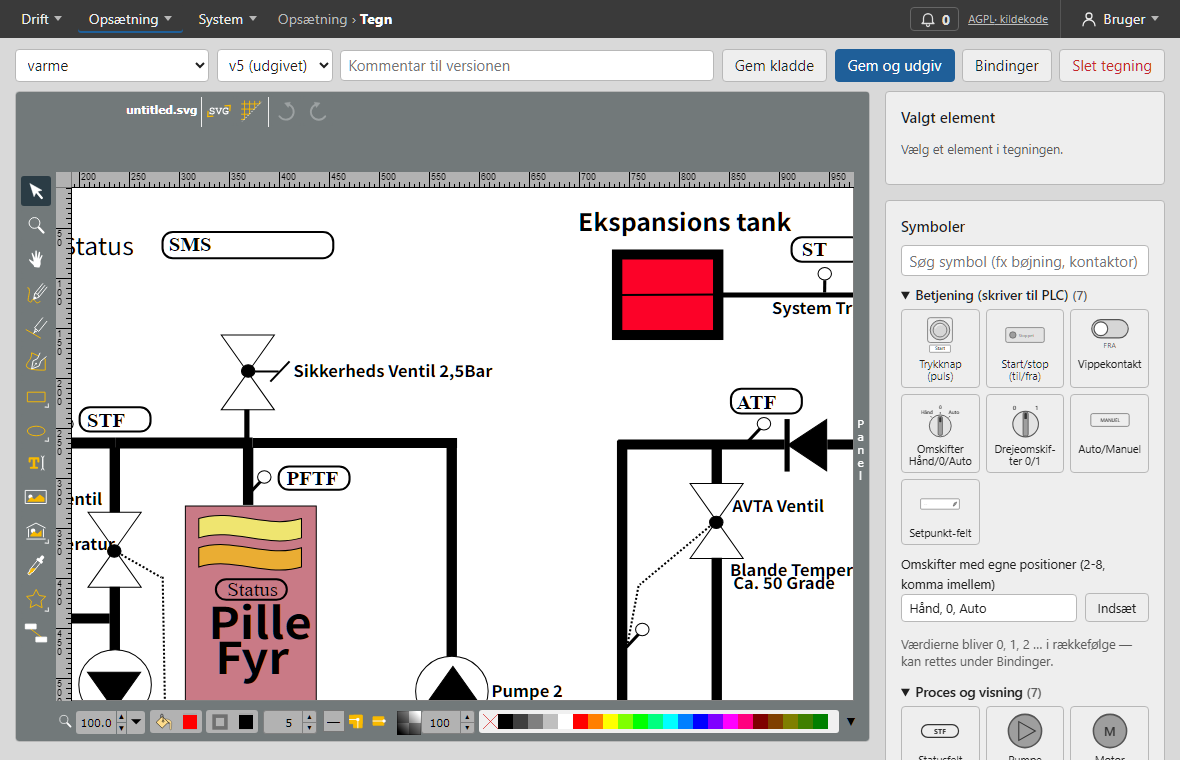
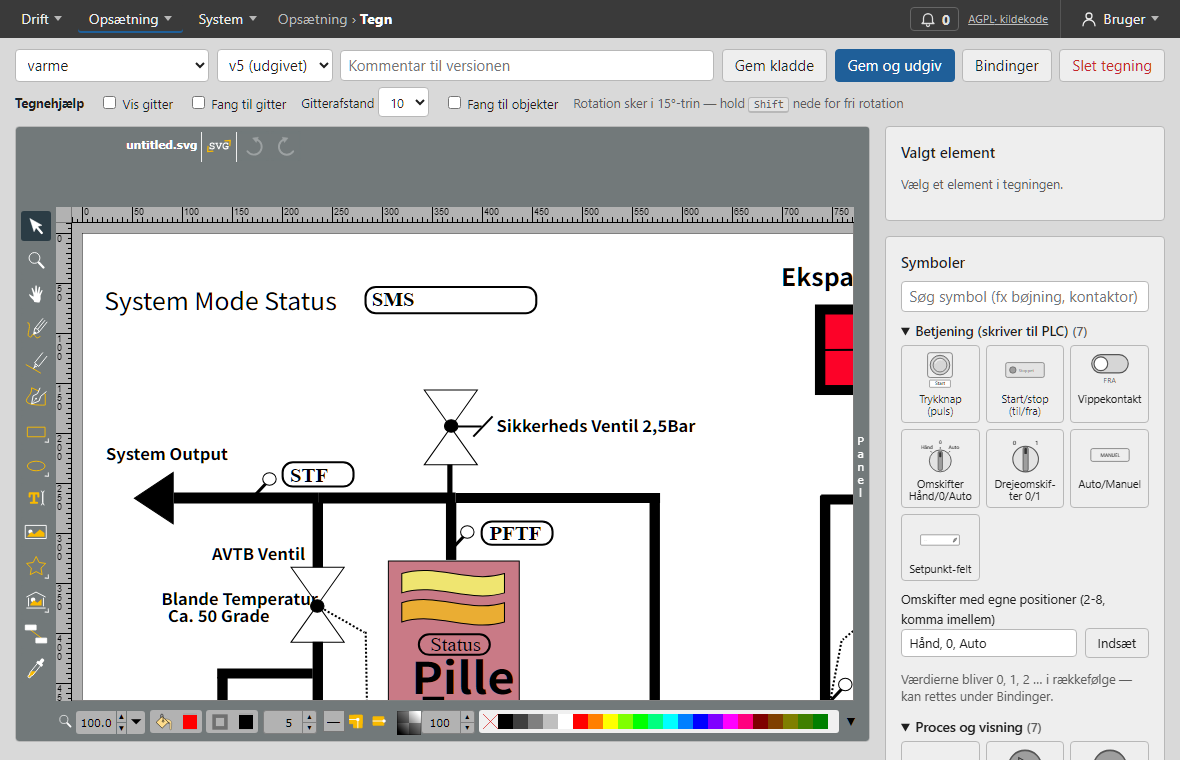
v0.54.1-b0080: manual: billeder af Tegnehjælp

diff --git a/CHANGELOG.md b/CHANGELOG.md
@@ -4,6 +4,10 @@ Nyeste øverst. Format: `## [version build NNNN] — YYYY-MM-DD — beskrivelse`
 
 ---
 
+## [0.54.1 build 0080] — 2026-10-16 — manual: billeder af Tegnehjælp
+
+- `frontend/public/manual/tegn-gitter.png` (nyt) og et nyt `tegn.png` med rækken Tegnehjælp; billedet er indsat i kapitlet *Tegninger og Tegn*. Verificeret på testserveren efter OTA-installation af 0.54.0: rotationsrettelsen er med i den leverede `Editor.js`, og gitteret ligger over det rigtige anlæg.
+
 ## [0.54.0 build 0079] — 2026-10-16 — Tegnehjælp: gitter, fang til gitter/objekter og rotation i 15°-trin
 
 - `frontend/svgedit-host/scada-editor.js` — **gitter** tegnet som et gennemsigtigt lag OVENPÅ tegningen (SVG-Edits eget gitter lå under og var skjult bag baggrundsrektanglet), afstand 5/10/20/25/50 med kraftigere linje for hver 5.; følger zoom og rulning; **fang til gitter** (SVG-Edits egen `gridSnapping`/`snappingStep`); **fang til objekter**: ved museslip efter et træk lægges det flyttede objekt kant mod kant eller midte mod midte med nærmeste objekt inden for 8 skærm-pixel (kan fortrydes). SVG-Edit sender ikke `changed` efter en flytning, så der lyttes på museknappen. API: `window.scada.setGuides({ grid, snapGrid, snapObjects, step })`. `ext-grid` er fjernet.

diff --git a/README.md b/README.md
@@ -13,7 +13,7 @@ Dokumentation:
 - **Brugermanual:** i programmet under **Bruger › Manual** (kilden er markdown i [frontend/src/manual/](frontend/src/manual/)). Skærmbillederne tages automatisk fra en kørende server: `cd frontend && SCADA_URL=https://<server> SCADA_USER=<admin> SCADA_PASS=… npm run manual:screenshots` (kun læsning).
 - [docs/SYMBOLSTANDARD.md](docs/SYMBOLSTANDARD.md) — designet for symboler (guide, kontaktplaner, animationer) + [interaktiv prototype](docs/prototyper/symbolguide.html)
 
-Status: v0.54.0 — Overview med live SVG-tegninger, betjening, alarmer og trends, tegne-editor, binding-editor, tags, audit-log, backup/restore, login, roller med adgang pr. tegning og HTTPS.
+Status: v0.54.1 — Overview med live SVG-tegninger, betjening, alarmer og trends, tegne-editor, binding-editor, tags, audit-log, backup/restore, login, roller med adgang pr. tegning og HTTPS.
 
 ## Udvikling
 

diff --git a/frontend/src/manual/04-tegninger-og-tegn.md b/frontend/src/manual/04-tegninger-og-tegn.md
@@ -45,6 +45,8 @@ Under værktøjslinjen i Tegn står rækken **Tegnehjælp**:
 
 Indstillingerne huskes i din browser.
 
+![Tegn med Tegnehjælp: gitter vist, fang til gitter og fang til objekter slået til](/manual/tegn-gitter.png)
+
 ### Symbolbiblioteket
 
 ![Symbolbiblioteket i Tegn, sorteret i kategorier med søgning](/manual/tegn-symboler.png)

diff --git a/RELEASE_NOTES.md b/RELEASE_NOTES.md
@@ -2,6 +2,10 @@
 
 ---
 
+## v0.54.1 — 2026-10-16
+
+- Manualen har fået et billede af **Tegnehjælp** (gitter og fang) i Tegn.
+
 ## v0.54.0 — 2026-10-16 — Gitter og fang i Tegn
 
 - Under værktøjslinjen i **Tegn** er der en ny række, **Tegnehjælp**:
